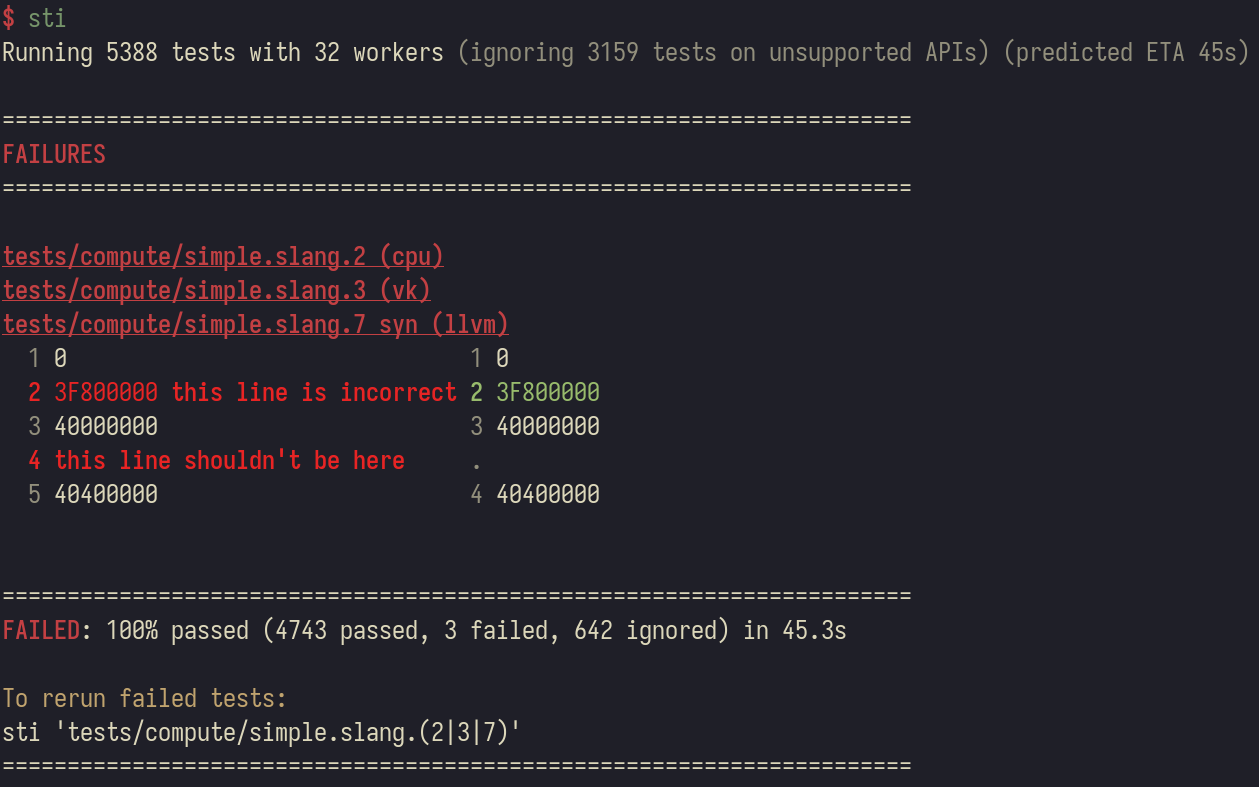
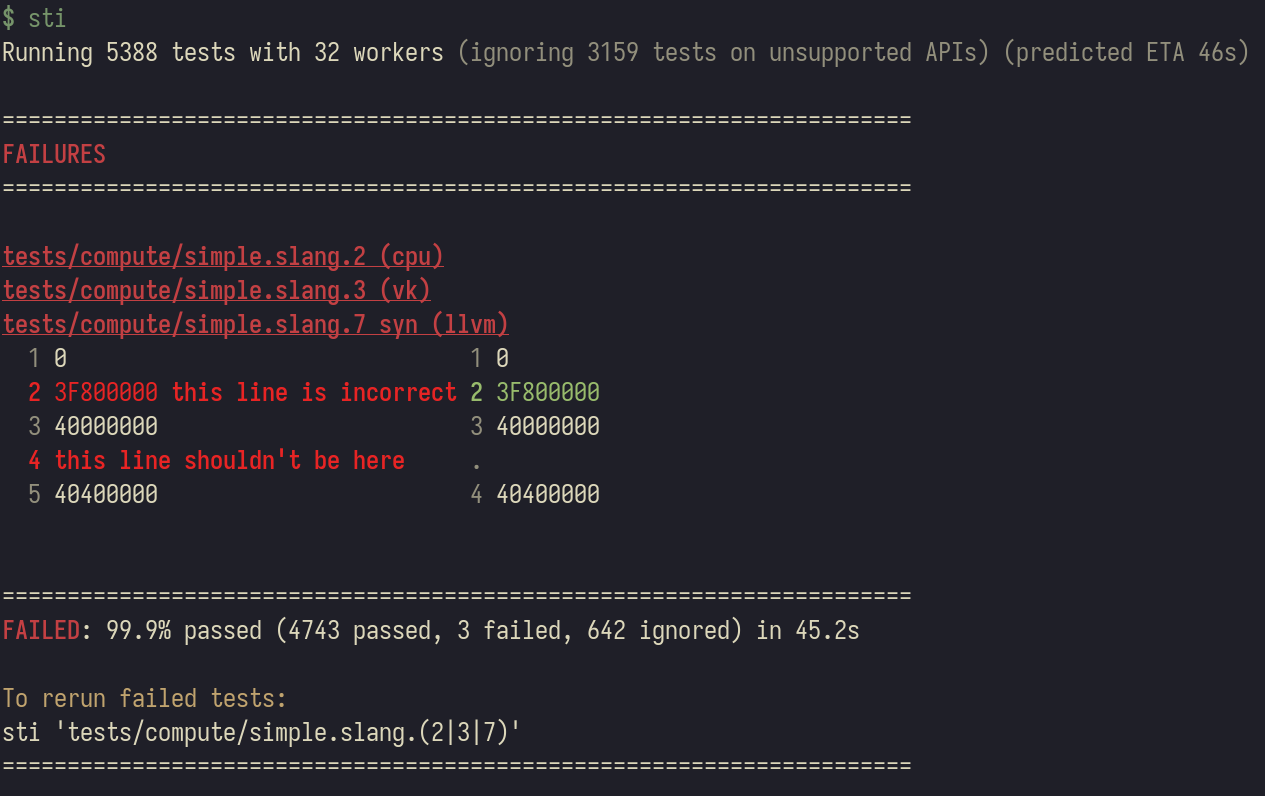
Optimize regex filtering and improve progress display
- Combine filter/ignore patterns into single alternation regex for performance
- Validate each pattern individually before combining (wrapping can fix invalid patterns)
- Show 'no output for Xs' message only after 5 seconds (was 1s)
- Fix percentage display to use 1 decimal place for partial results

diff --git a/src/discovery.rs b/src/discovery.rs
@@ -588,16 +588,28 @@ fn spawn_test_discovery(
     apis: Vec<String>,
     ignore_apis: Vec<String>,
 ) -> Result<()> {
-    // Compile filter regexes upfront
-    let filter_regexes: Vec<Regex> = filters
-        .iter()
-        .map(|p| Regex::new(p).with_context(|| format!("Invalid filter regex: {}", p)))
-        .collect::<Result<Vec<_>>>()?;
+    // Combine patterns into single alternation regex for better performance.
+    // Must validate each pattern first - wrapping in (?:...) can "fix" invalid patterns
+    // (e.g., ")(" is invalid, but "(?:)()" is valid).
+    fn combine_patterns(patterns: &[String], desc: &str) -> Result<Option<Regex>> {
+        if patterns.is_empty() {
+            return Ok(None);
+        }
+        // Validate each pattern individually
+        for p in patterns {
+            Regex::new(p).with_context(|| format!("Invalid {} regex: {}", desc, p))?;
+        }
+        // Combine into single alternation: (?:pat1)|(?:pat2)|...
+        let combined = patterns
+            .iter()
+            .map(|p| format!("(?:{})", p))
+            .collect::<Vec<_>>()
+            .join("|");
+        Ok(Some(Regex::new(&combined)?))
+    }
 
-    let ignore_regexes: Vec<Regex> = ignore_patterns
-        .iter()
-        .map(|p| Regex::new(p).with_context(|| format!("Invalid ignore regex: {}", p)))
-        .collect::<Result<Vec<_>>>()?;
+    let filter_regex = combine_patterns(&filters, "filter")?;
+    let ignore_regex = combine_patterns(&ignore_patterns, "ignore")?;
 
     log_event(
         "dry_run",
@@ -673,12 +685,12 @@ fn spawn_test_discovery(
             }
 
             // Apply ignore patterns (regex) - these are user-specified ignores
-            if ignore_regexes.iter().any(|re| re.is_match(line)) {
+            if ignore_regex.as_ref().is_some_and(|re| re.is_match(line)) {
                 continue;
             }
 
             // Apply filter patterns (regex) - test must match at least one filter
-            if !filter_regexes.is_empty() && !filter_regexes.iter().any(|re| re.is_match(line)) {
+            if filter_regex.as_ref().is_some_and(|re| !re.is_match(line)) {
                 continue;
             }
 

diff --git a/src/runner.rs b/src/runner.rs
@@ -1922,20 +1922,28 @@ impl TestRunner {
                 }
             } else {
                 let pass_pct = (passed as f64 / total_run as f64) * 100.0;
+                // Use 1 decimal place for partial results to avoid misleading 0%/100%
+                let pct_str = if passed == 0 {
+                    "0".to_string()
+                } else if passed == total_run {
+                    "100".to_string()
+                } else {
+                    format!("{:.1}", pass_pct)
+                };
                 if failed == 0 {
                     println!(
-                        "{}: {:.0}% passed ({} passed, {} ignored) in {:.1}s",
+                        "{}: {}% passed ({} passed, {} ignored) in {:.1}s",
                         "OK".green().bold(),
-                        pass_pct,
+                        pct_str,
                         passed,
                         ignored,
                         elapsed.as_secs_f64()
                     );
                 } else {
                     println!(
-                        "{}: {:.0}% passed ({} passed, {} failed, {} ignored) in {:.1}s",
+                        "{}: {}% passed ({} passed, {} failed, {} ignored) in {:.1}s",
                         "FAILED".red().bold(),
-                        pass_pct,
+                        pct_str,
                         passed,
                         failed,
                         ignored,

diff --git a/src/progress.rs b/src/progress.rs
@@ -249,13 +249,13 @@ impl ProgressDisplay {
             };
 
             let stuck_info = if let Some(secs) = stats.seconds_since_last_output() {
-                if secs > 1.0 {
-                    format!(" \x1b[2m[waiting {:.0}s]\x1b[0m", secs)
+                if secs >= 5.0 {
+                    format!(" \x1b[2m[no output for {:.0}s]\x1b[0m", secs)
                 } else {
                     String::new()
                 }
             } else {
-                " \x1b[2m[no timer]\x1b[0m".to_string()
+                String::new()
             };
 
             let load_info = if self.verbose {

diff --git a/README.md b/README.md
@@ -74,9 +74,6 @@ sti --dry-run diagnostic
 # Customize parallelism
 sti -j 8
 
-# Use difft for side-by-side diffs
-sti --diff difft
-
 # Ignore tests matching a pattern
 sti --ignore 'compute'
 
